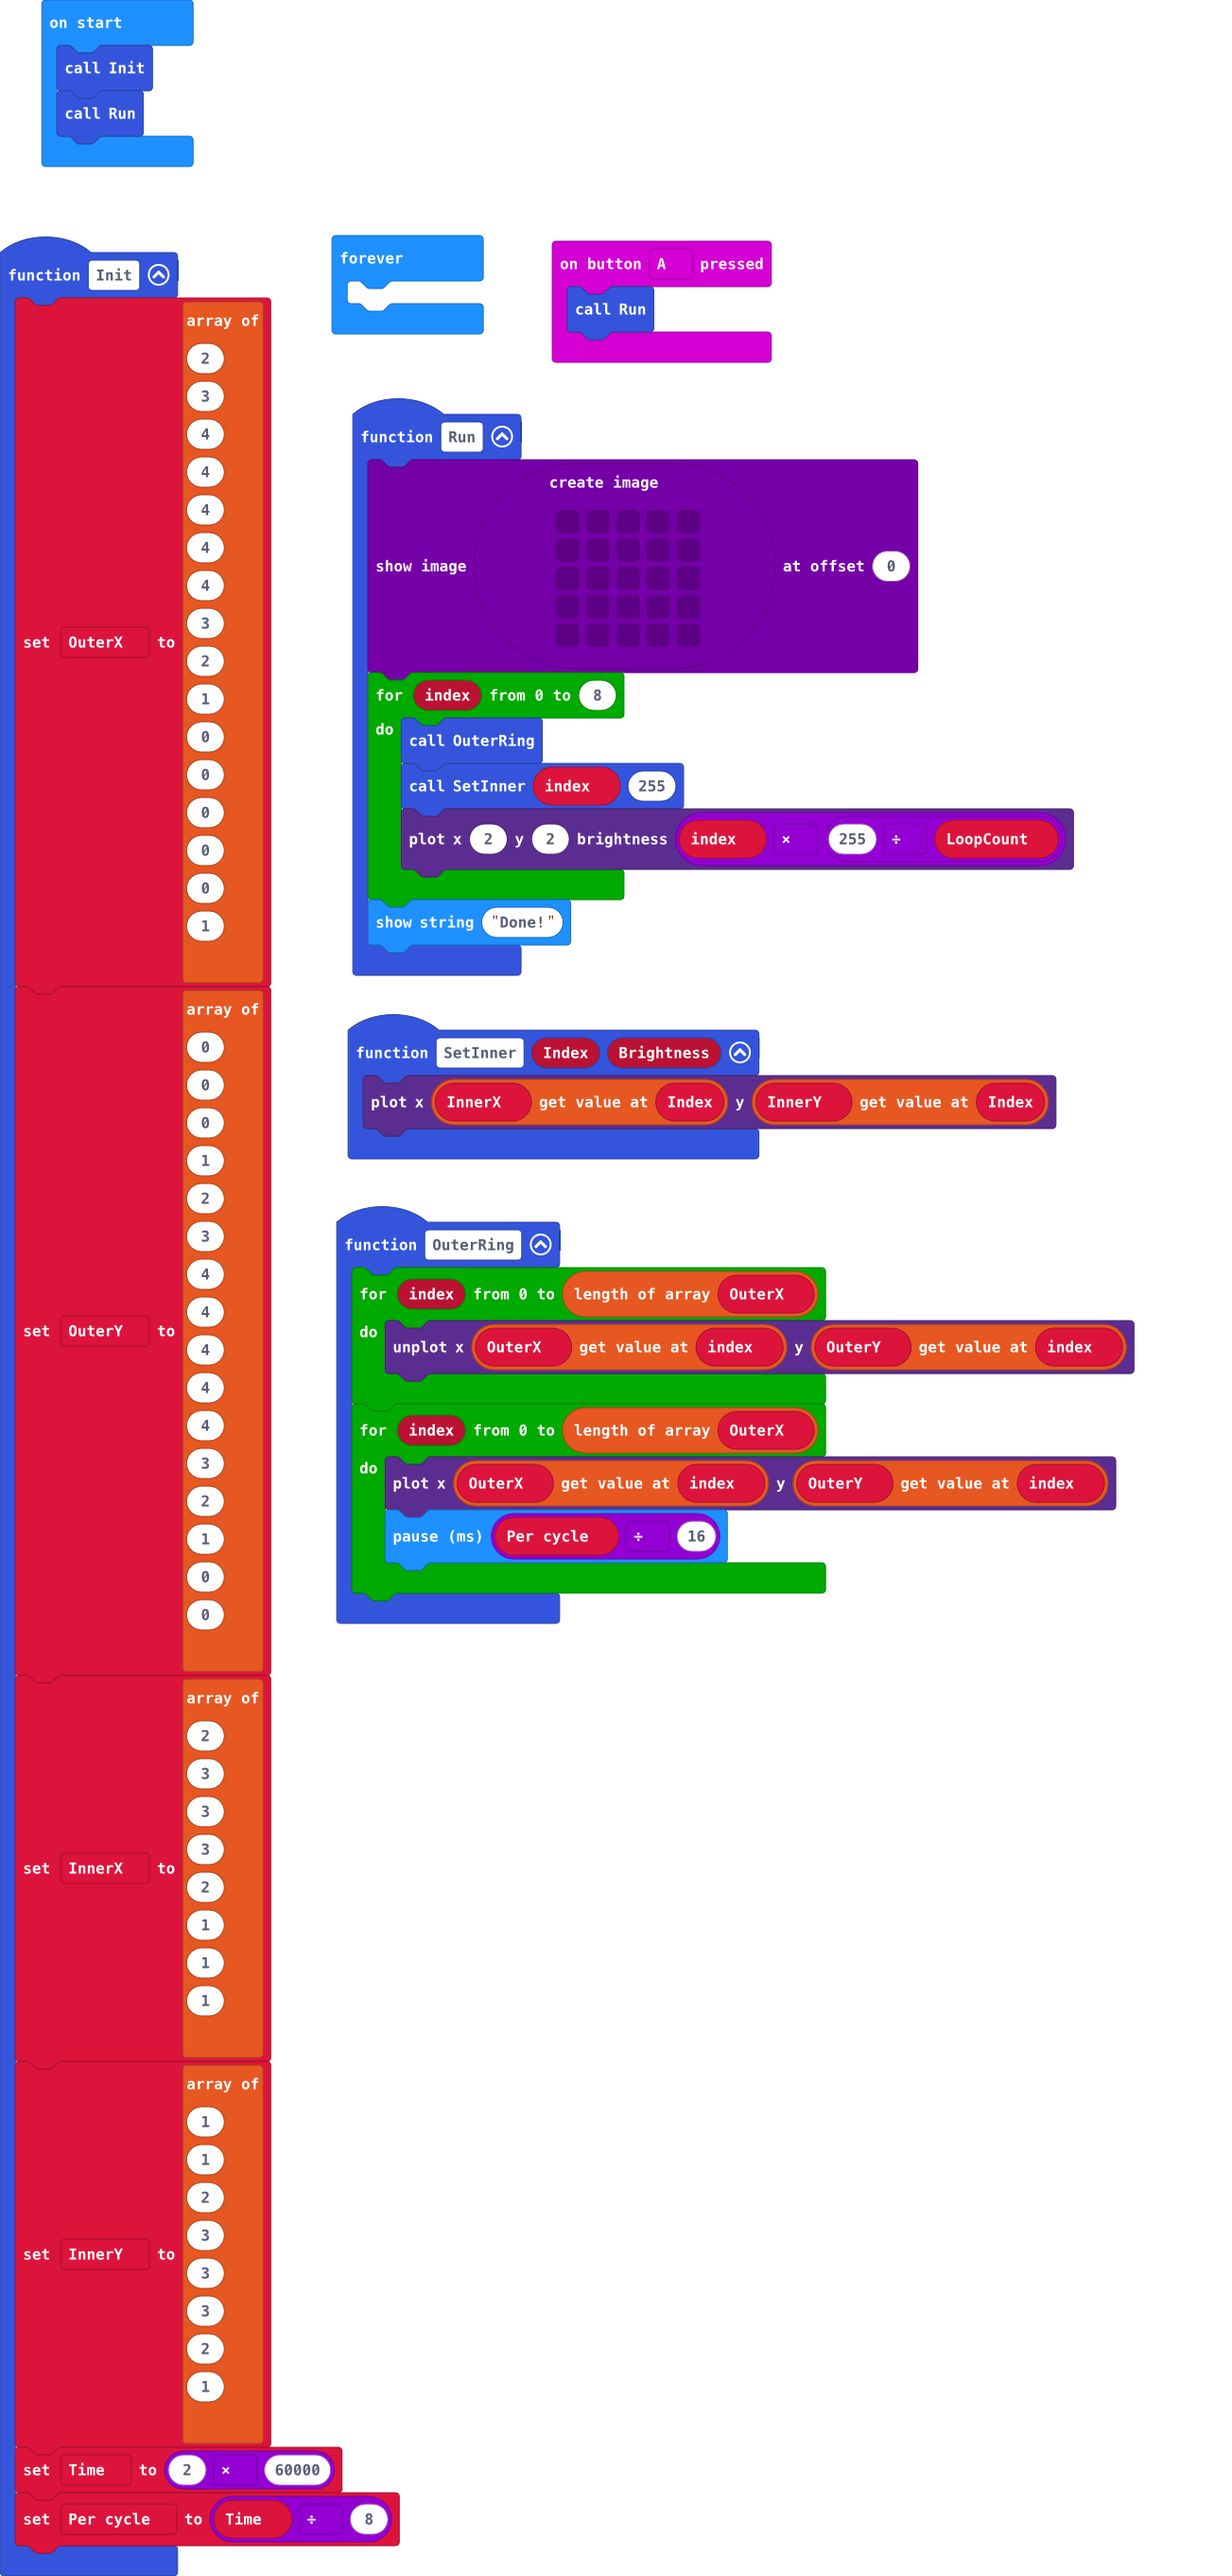
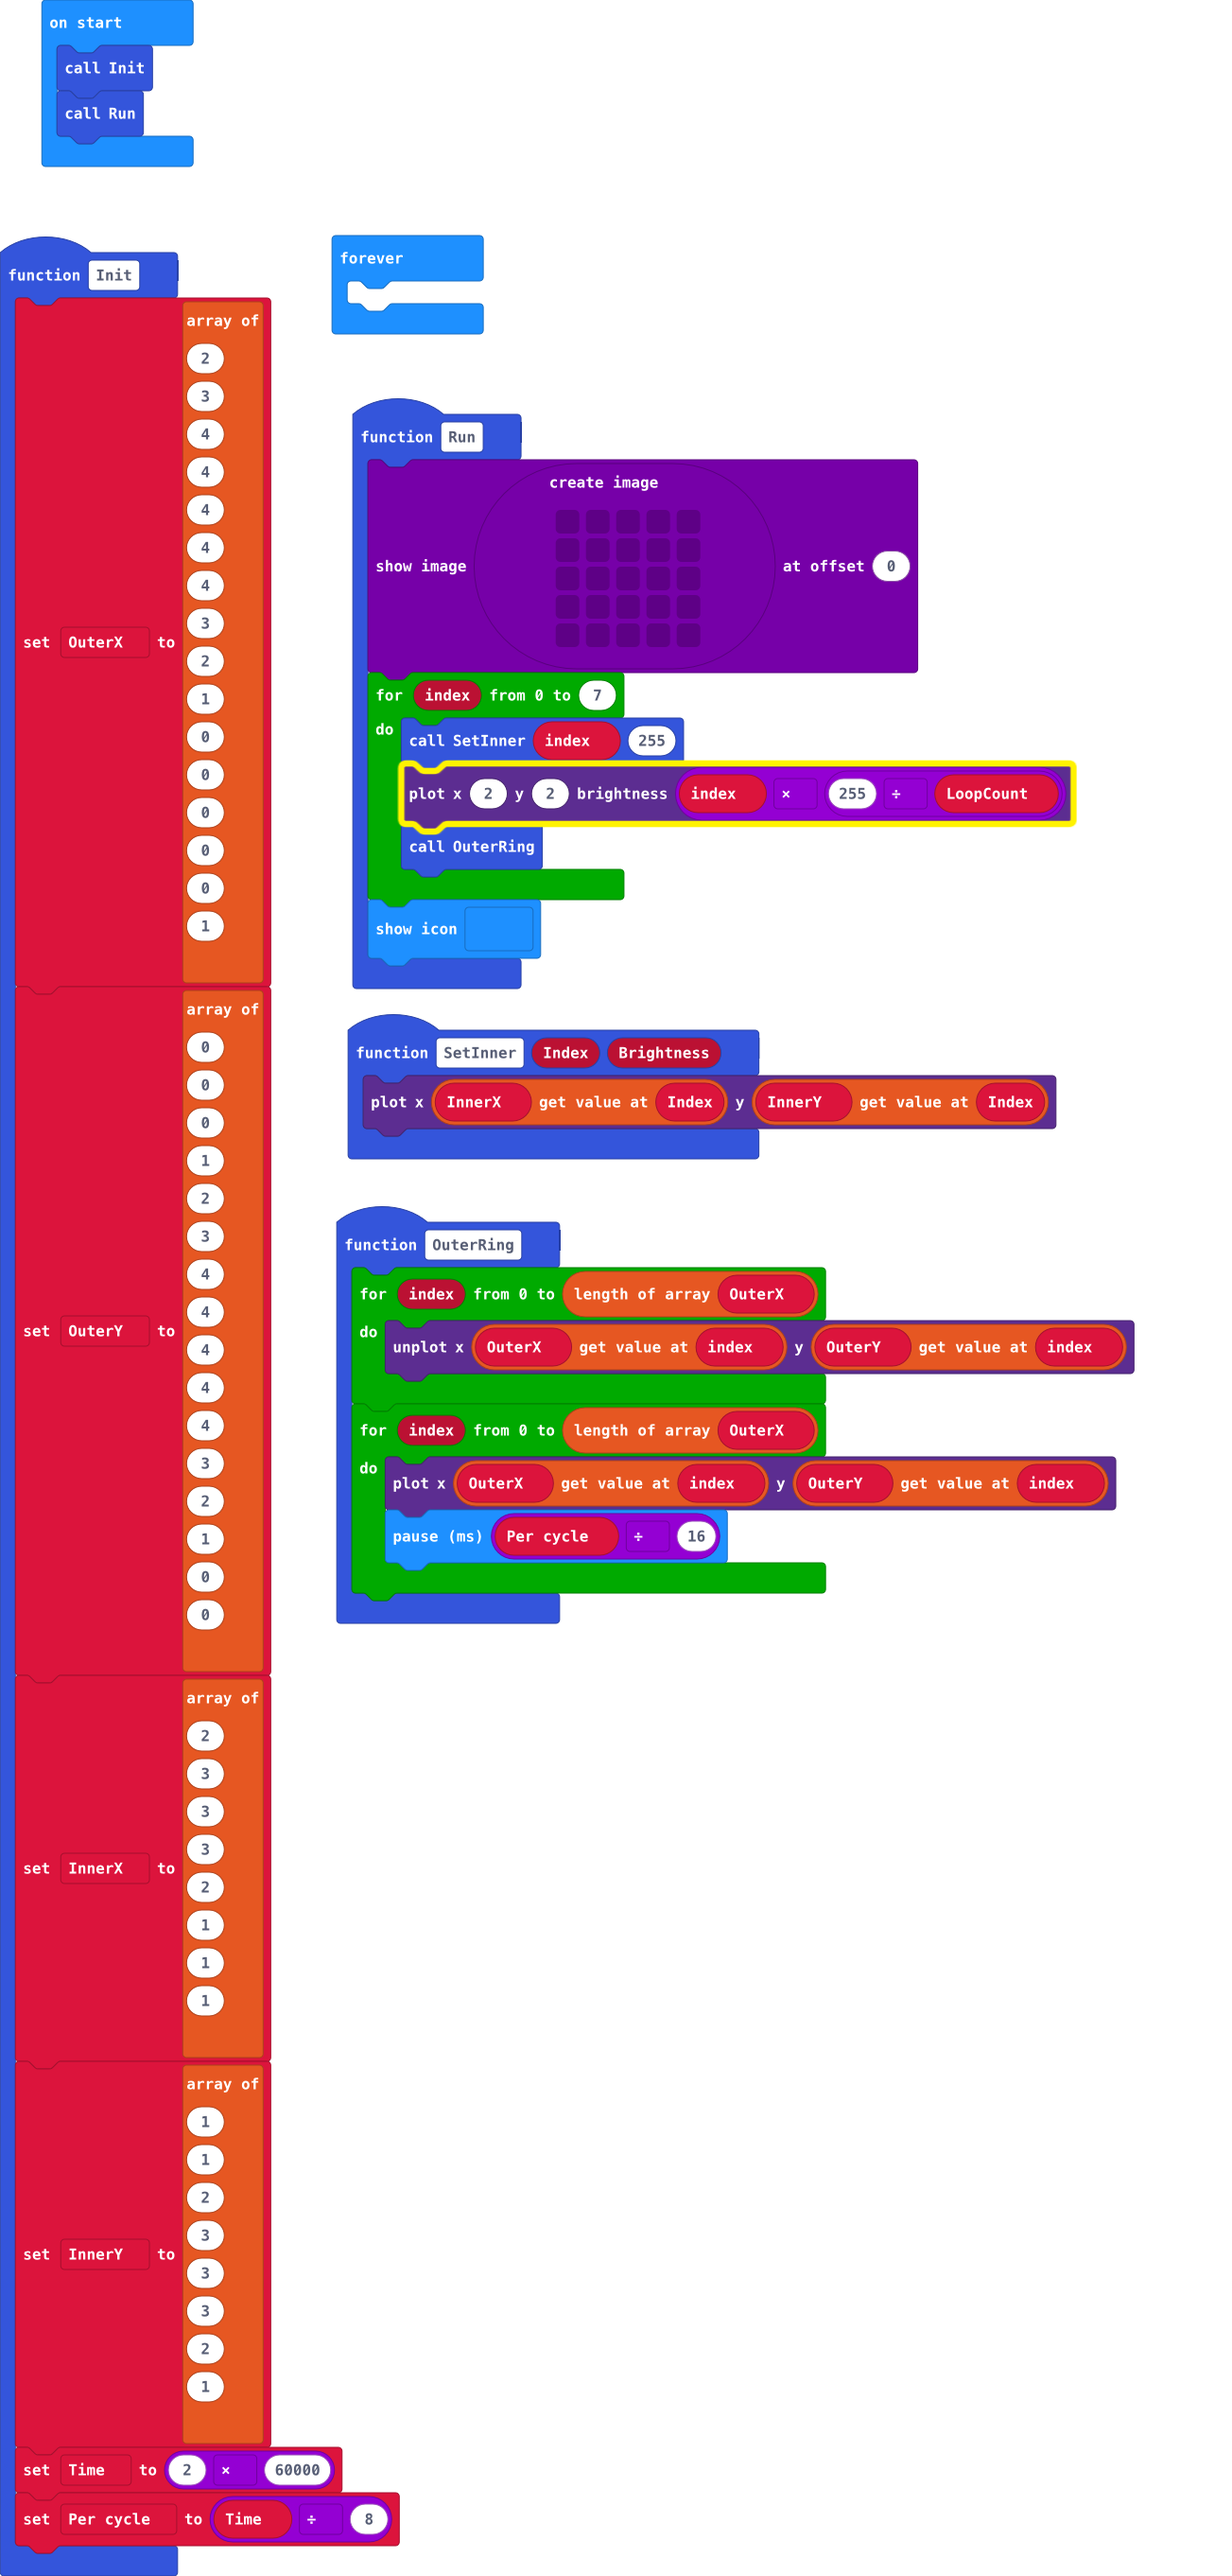
fix loop count, show checkmark when done

Changed region(s): [[0.2763, 0.2497, 0.8903, 0.4058], [0.4298, 0.0936, 0.6447, 0.1561]]

diff --git a/main.ts b/main.ts
@@ -7,9 +7,6 @@ function OuterRing () {
         basic.pause(Per_cycle / 16)
     }
 }
-input.onButtonPressed(Button.A, function () {
-    Run()
-})
 function SetInner (Index: number, Brightness: number) {
     led.plot(InnerX[Index], InnerY[Index])
 }
@@ -21,13 +18,13 @@ function Run () {
         . . . . .
         . . . . .
         `).showImage(0)
-    for (let index = 0; index <= 8; index++) {
+    for (let index = 0; index <= 7; index++) {
         let LoopCount = 0
-        OuterRing()
         SetInner(index, 255)
         led.plotBrightness(2, 2, index * (255 / LoopCount))
+        OuterRing()
     }
-    basic.showString("Done!")
+    basic.showIcon(IconNames.Yes)
 }
 function Init () {
     OuterX = [2, 3, 4, 4, 4, 4, 4, 3, 2, 1, 0, 0, 0, 0, 0, 1]
